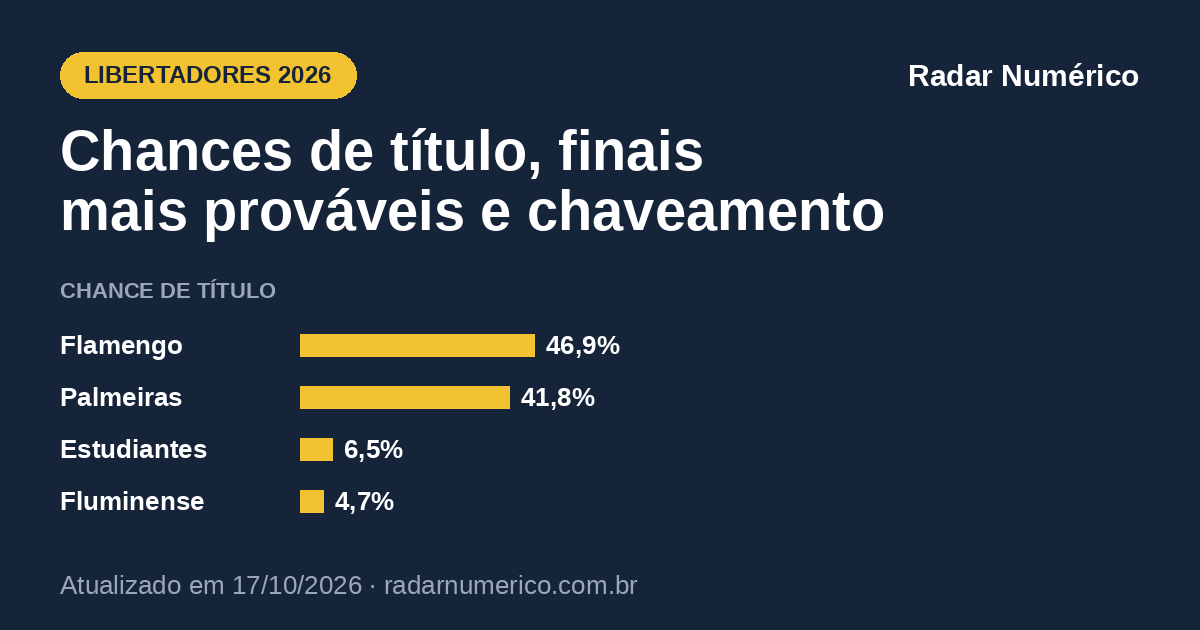
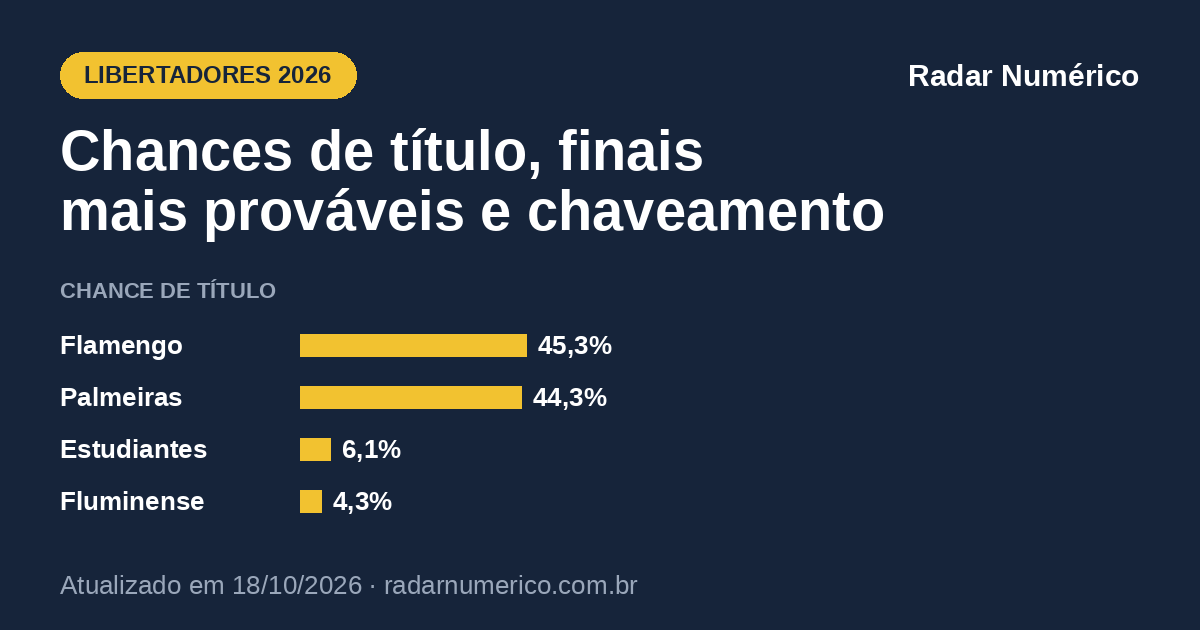
Libertadores: pagina regerada com a forca atual (18/10 07h43)

diff --git a/futebol/libertadores/index.html b/futebol/libertadores/index.html
@@ -12,11 +12,11 @@
 <meta property="og:title" content="Libertadores 2026: chances de título e chaveamento">
 <meta property="og:description" content="Probabilidades da Libertadores 2026 por simulação: chance de título, de chegar à final, finais mais prováveis e chaveamento com as chances de cada time.">
 <meta property="og:url" content="https://radarnumerico.com.br/futebol/libertadores/">
-<meta property="og:image" content="https://radarnumerico.com.br/futebol/libertadores/og.png?v=202610171547">
+<meta property="og:image" content="https://radarnumerico.com.br/futebol/libertadores/og.png?v=202610180743">
 <meta property="og:image:width" content="1200">
 <meta property="og:image:height" content="630">
 <meta name="twitter:card" content="summary_large_image">
-<script type="application/ld+json">{"@context": "https://schema.org", "@graph": [{"@type": "WebPage", "@id": "https://radarnumerico.com.br/futebol/libertadores/", "url": "https://radarnumerico.com.br/futebol/libertadores/", "name": "Libertadores 2026: chances de título e chaveamento", "description": "Probabilidades da Libertadores 2026 por simulação: chance de título, de chegar à final, finais mais prováveis e chaveamento com as chances de cada time.", "inLanguage": "pt-BR", "dateModified": "2026-10-17T15:47", "isPartOf": {"@type": "WebSite", "name": "Radar Numérico", "url": "https://radarnumerico.com.br/"}, "about": {"@type": "SportsEvent", "name": "Copa Libertadores 2026", "sport": "Futebol"}}, {"@type": "BreadcrumbList", "itemListElement": [{"@type": "ListItem", "position": 1, "name": "Radar Numérico", "item": "https://radarnumerico.com.br/"}, {"@type": "ListItem", "position": 2, "name": "Libertadores 2026: probabilidades", "item": "https://radarnumerico.com.br/futebol/libertadores/"}]}]}</script>
+<script type="application/ld+json">{"@context": "https://schema.org", "@graph": [{"@type": "WebPage", "@id": "https://radarnumerico.com.br/futebol/libertadores/", "url": "https://radarnumerico.com.br/futebol/libertadores/", "name": "Libertadores 2026: chances de título e chaveamento", "description": "Probabilidades da Libertadores 2026 por simulação: chance de título, de chegar à final, finais mais prováveis e chaveamento com as chances de cada time.", "inLanguage": "pt-BR", "dateModified": "2026-10-18T07:43", "isPartOf": {"@type": "WebSite", "name": "Radar Numérico", "url": "https://radarnumerico.com.br/"}, "about": {"@type": "SportsEvent", "name": "Copa Libertadores 2026", "sport": "Futebol"}}, {"@type": "BreadcrumbList", "itemListElement": [{"@type": "ListItem", "position": 1, "name": "Radar Numérico", "item": "https://radarnumerico.com.br/"}, {"@type": "ListItem", "position": 2, "name": "Libertadores 2026: probabilidades", "item": "https://radarnumerico.com.br/futebol/libertadores/"}]}]}</script>
 <link rel="icon" type="image/png" href="/favicon.png">
 <link rel="preconnect" href="https://fonts.googleapis.com">
 <link rel="preconnect" href="https://fonts.gstatic.com" crossorigin>
@@ -161,8 +161,8 @@ footer.site a{color:var(--ink2)}
 <header class="pg">
   <div class="kicker">Futebol · Libertadores</div>
   <h1>Libertadores 2026: chances de título e chaveamento</h1>
-  <div class="selo" id="selo">Atualizado em <b>17/10/2026 às 15h47</b> · <b>Semifinais</b> · idas já disputadas</div>
-  <p class="lede">O <b>Flamengo</b> tem <b>46,9%</b> de chance de ser campeão da Libertadores 2026; o <b>Palmeiras</b>, <b>41,8%</b>. A final mais provável é <b>Flamengo × Palmeiras</b> (70,5% dos cenários) — nela, o Flamengo venceria 57,7% das vezes.</p>
+  <div class="selo" id="selo">Atualizado em <b>18/10/2026 às 07h43</b> · <b>Semifinais</b> · idas já disputadas</div>
+  <p class="lede">O <b>Flamengo</b> tem <b>45,3%</b> de chance de ser campeão da Libertadores 2026; o <b>Palmeiras</b>, <b>44,3%</b>. A final mais provável é <b>Flamengo × Palmeiras</b> (71,4% dos cenários) — nela, o Flamengo venceria 55,4% das vezes.</p>
   <div class="outras"><a href="/futebol/copa-do-brasil/">Copa do Brasil 2026</a> <a href="/futebol/sul-americana/">Sul-Americana 2026</a> <a href="/futebol/brasileirao/">Brasileirão 2026</a></div>
 </header>
 
@@ -200,7 +200,7 @@ footer.site a{color:var(--ink2)}
 
 <div class="metod">
   <p class="marca">Radar Numérico</p>
-  <p id="rodape">Probabilidades da Libertadores 2026 atualizadas em 17/10/2026 às 15h47, após os jogos de ida das semifinais. Atualizamos depois de cada jogo.</p>
+  <p id="rodape">Probabilidades da Libertadores 2026 atualizadas em 18/10/2026 às 07h43, após os jogos de ida das semifinais. Atualizamos depois de cada jogo.</p>
   <p>Algoritmo desenvolvido pelo economista Augusto Pellegrini. As probabilidades vêm de 100 mil simulações do mata-mata, com a força de cada time calibrada nas odds do mercado e nos resultados da temporada — a mesma matriz de força usada no <a href="/futebol/brasileirao/">Brasileirão</a>.</p>
 </div>
 </main>
@@ -208,7 +208,7 @@ footer.site a{color:var(--ink2)}
 <div id="toast" role="status" aria-live="polite"></div>
 
 <script>
-const D = {"gerado_em":"2026-10-17T15:47","n_sim":100000,"torneios":{"libertadores":{"nome":"Copa Libertadores 2026","fase":"Semifinais","regras":"Semifinais em ida e volta, sem gol fora e sem prorrogação: empate no agregado vai direto aos pênaltis. Final em jogo único no Centenário (Montevidéu); empate no tempo normal tem prorrogação de 30 minutos e depois pênaltis.","final":{"data":"2026-11-28","hora":"","local":"Estádio Centenário, Montevidéu","neutro":true,"prorrogacao":true},"fontes":["https://en.wikipedia.org/wiki/2026_Copa_Libertadores_final_stages","https://www.gazetaesportiva.com/times/flamengo/estudiantes-flamengo-libertadores-semifinal-ida-2026/","https://www.cnnbrasil.com.br/esportes/futebol/futebol-internacional/libertadores-da-america/palmeiras-e-letal-vence-o-fluminense-e-abre-vantagem-na-libertadores/"],"times":["Estudiantes","Flamengo","Fluminense","Palmeiras"],"resumo":{"Estudiantes":{"forca":15.5208,"propensao":1.0,"p_final":0.2001,"p_titulo":0.065,"p_titulo_dado_final":0.325},"Flamengo":{"forca":29.9901,"propensao":1.0485,"p_final":0.7998,"p_titulo":0.4694,"p_titulo_dado_final":0.5869},"Fluminense":{"forca":21.1148,"propensao":0.9742,"p_final":0.1187,"p_titulo":0.0471,"p_titulo_dado_final":0.3967},"Palmeiras":{"forca":25.8121,"propensao":1.012,"p_final":0.8813,"p_titulo":0.4184,"p_titulo_dado_final":0.4748}},"confrontos":[{"times":["Estudiantes","Flamengo"],"jogos":[{"perna":1,"mandante":"Estudiantes","visitante":"Flamengo","realizado":true,"gm":0,"gv":0,"data":"2026-10-15","hora":"21:30","local":"Jorge Luis Hirschi, La Plata"},{"perna":2,"mandante":"Flamengo","visitante":"Estudiantes","realizado":false,"lam_h":2.036,"lam_a":0.623,"eg_m":2.0289,"eg_v":0.6206,"vm":0.692,"e":0.2189,"vv":0.0891,"etot":2.659,"placar_mais_provavel":"2-0","p_placar":0.1442,"data":"2026-10-22","hora":"21:30","local":"Maracanã, Rio de Janeiro"}],"p_avanca":{"Estudiantes":0.2001,"Flamengo":0.7998},"p_penaltis":0.2207,"p_avanca_no_tempo_normal":{"Estudiantes":0.089,"Flamengo":0.6903}},{"times":["Fluminense","Palmeiras"],"jogos":[{"perna":1,"mandante":"Fluminense","visitante":"Palmeiras","realizado":true,"gm":1,"gv":2,"data":"2026-10-14","hora":"21:30","local":"Maracanã, Rio de Janeiro"},{"perna":2,"mandante":"Palmeiras","visitante":"Fluminense","realizado":false,"lam_h":1.656,"lam_a":0.8441,"eg_m":1.6527,"eg_v":0.8423,"vm":0.551,"e":0.2738,"vv":0.1752,"etot":2.5001,"placar_mais_provavel":"1-1","p_placar":0.1296,"data":"2026-10-21","hora":"21:30","local":"Nubank Parque, São Paulo"}],"p_avanca":{"Fluminense":0.1187,"Palmeiras":0.8813},"p_penaltis":0.1165,"p_avanca_no_tempo_normal":{"Fluminense":0.0596,"Palmeiras":0.8239}}],"finais":[{"times":["Estudiantes","Fluminense"],"p_par":0.0237,"vm":0.2618,"e":0.2989,"vv":0.4393,"etot":2.4705,"placar_mais_provavel":"1-1","p_placar":0.1423,"p_titulo_lado1":0.3798,"p_prorrogacao":0.2778,"p_penaltis":0.1547},{"times":["Estudiantes","Palmeiras"],"p_par":0.1764,"vm":0.1997,"e":0.2832,"vv":0.5171,"etot":2.5665,"placar_mais_provavel":"1-1","p_placar":0.135,"p_titulo_lado1":0.3176,"p_prorrogacao":0.2846,"p_penaltis":0.1471},{"times":["Flamengo","Fluminense"],"p_par":0.095,"vm":0.4939,"e":0.2888,"vv":0.2174,"etot":2.5902,"placar_mais_provavel":"1-1","p_placar":0.1379,"p_titulo_lado1":0.6591,"p_prorrogacao":0.2899,"p_penaltis":0.1502},{"times":["Flamengo","Palmeiras"],"p_par":0.7049,"vm":0.4156,"e":0.302,"vv":0.2824,"etot":2.6908,"placar_mais_provavel":"1-1","p_placar":0.1441,"p_titulo_lado1":0.5772,"p_prorrogacao":0.3029,"p_penaltis":0.156}],"n_sim":100000,"seed":20261017}}};
+const D = {"gerado_em":"2026-10-18T07:43","n_sim":100000,"torneios":{"libertadores":{"nome":"Copa Libertadores 2026","fase":"Semifinais","regras":"Semifinais em ida e volta, sem gol fora e sem prorrogação: empate no agregado vai direto aos pênaltis. Final em jogo único no Centenário (Montevidéu); empate no tempo normal tem prorrogação de 30 minutos e depois pênaltis.","final":{"data":"2026-11-28","hora":"","local":"Estádio Centenário, Montevidéu","neutro":true,"prorrogacao":true},"fontes":["https://en.wikipedia.org/wiki/2026_Copa_Libertadores_final_stages","https://www.gazetaesportiva.com/times/flamengo/estudiantes-flamengo-libertadores-semifinal-ida-2026/","https://www.cnnbrasil.com.br/esportes/futebol/futebol-internacional/libertadores-da-america/palmeiras-e-letal-vence-o-fluminense-e-abre-vantagem-na-libertadores/"],"times":["Estudiantes","Flamengo","Fluminense","Palmeiras"],"resumo":{"Estudiantes":{"forca":15.5208,"propensao":1.0,"p_final":0.1994,"p_titulo":0.0614,"p_titulo_dado_final":0.3081},"Flamengo":{"forca":29.9583,"propensao":1.0485,"p_final":0.8006,"p_titulo":0.4526,"p_titulo_dado_final":0.5653},"Fluminense":{"forca":21.0859,"propensao":0.9742,"p_final":0.1081,"p_titulo":0.0427,"p_titulo_dado_final":0.395},"Palmeiras":{"forca":27.1181,"propensao":1.012,"p_final":0.8919,"p_titulo":0.4433,"p_titulo_dado_final":0.497}},"confrontos":[{"times":["Estudiantes","Flamengo"],"jogos":[{"perna":1,"mandante":"Estudiantes","visitante":"Flamengo","realizado":true,"gm":0,"gv":0,"data":"2026-10-15","hora":"21:30","local":"Jorge Luis Hirschi, La Plata"},{"perna":2,"mandante":"Flamengo","visitante":"Estudiantes","realizado":false,"lam_h":2.0397,"lam_a":0.6193,"eg_m":2.0349,"eg_v":0.6177,"vm":0.6952,"e":0.2154,"vv":0.0894,"etot":2.659,"placar_mais_provavel":"2-0","p_placar":0.145,"data":"2026-10-22","hora":"21:30","local":"Maracanã, Rio de Janeiro"}],"p_avanca":{"Estudiantes":0.1994,"Flamengo":0.8006},"p_penaltis":0.2174,"p_avanca_no_tempo_normal":{"Estudiantes":0.0899,"Flamengo":0.6928}},{"times":["Fluminense","Palmeiras"],"jogos":[{"perna":1,"mandante":"Fluminense","visitante":"Palmeiras","realizado":true,"gm":1,"gv":2,"data":"2026-10-14","hora":"21:30","local":"Maracanã, Rio de Janeiro"},{"perna":2,"mandante":"Palmeiras","visitante":"Fluminense","realizado":false,"lam_h":1.7007,"lam_a":0.7994,"eg_m":1.7,"eg_v":0.7991,"vm":0.5757,"e":0.2632,"vv":0.1611,"etot":2.5001,"placar_mais_provavel":"1-0","p_placar":0.1273,"data":"2026-10-21","hora":"21:30","local":"Nubank Parque, São Paulo"}],"p_avanca":{"Fluminense":0.1081,"Palmeiras":0.8919},"p_penaltis":0.1093,"p_avanca_no_tempo_normal":{"Fluminense":0.0528,"Palmeiras":0.8379}}],"finais":[{"times":["Estudiantes","Fluminense"],"p_par":0.0213,"vm":0.2638,"e":0.2949,"vv":0.4414,"etot":2.4705,"placar_mais_provavel":"1-1","p_placar":0.1404,"p_titulo_lado1":0.3876,"p_prorrogacao":0.2726,"p_penaltis":0.145},{"times":["Estudiantes","Palmeiras"],"p_par":0.1781,"vm":0.1852,"e":0.2736,"vv":0.5412,"etot":2.5665,"placar_mais_provavel":"1-1","p_placar":0.1303,"p_titulo_lado1":0.2986,"p_prorrogacao":0.2724,"p_penaltis":0.1381},{"times":["Flamengo","Fluminense"],"p_par":0.0868,"vm":0.4966,"e":0.2847,"vv":0.2186,"etot":2.5902,"placar_mais_provavel":"1-1","p_placar":0.136,"p_titulo_lado1":0.6583,"p_prorrogacao":0.2836,"p_penaltis":0.1504},{"times":["Flamengo","Palmeiras"],"p_par":0.7138,"vm":0.3958,"e":0.2999,"vv":0.3043,"etot":2.6908,"placar_mais_provavel":"1-1","p_placar":0.1431,"p_titulo_lado1":0.5539,"p_prorrogacao":0.3003,"p_penaltis":0.1542}],"n_sim":100000,"seed":20261017}}};
 const K = 'libertadores', CURTO = 'Libertadores 2026', SITE_URL = 'https://radarnumerico.com.br/futebol/libertadores/';
 const $ = s => document.querySelector(s);
 const pct = (p, c = 1) => { const v = p * 100; if (v >= 99.95) return '100%'; if (v > 0 && v < 0.05) return '<0,1%'; return v.toFixed(c).replace('.', ',') + '%'; };
